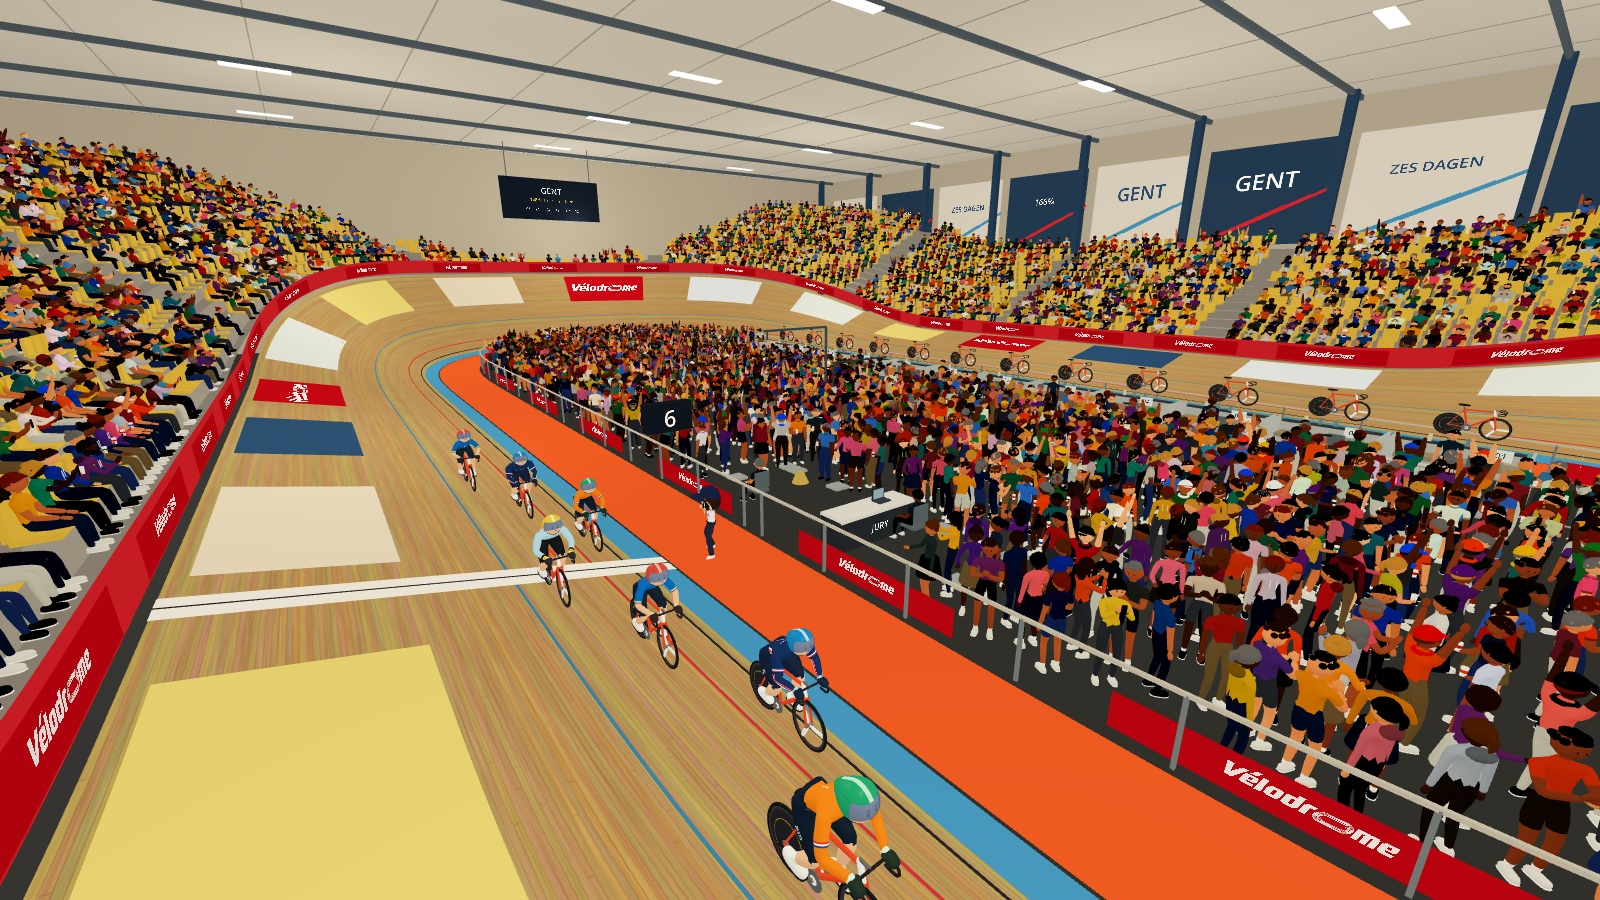
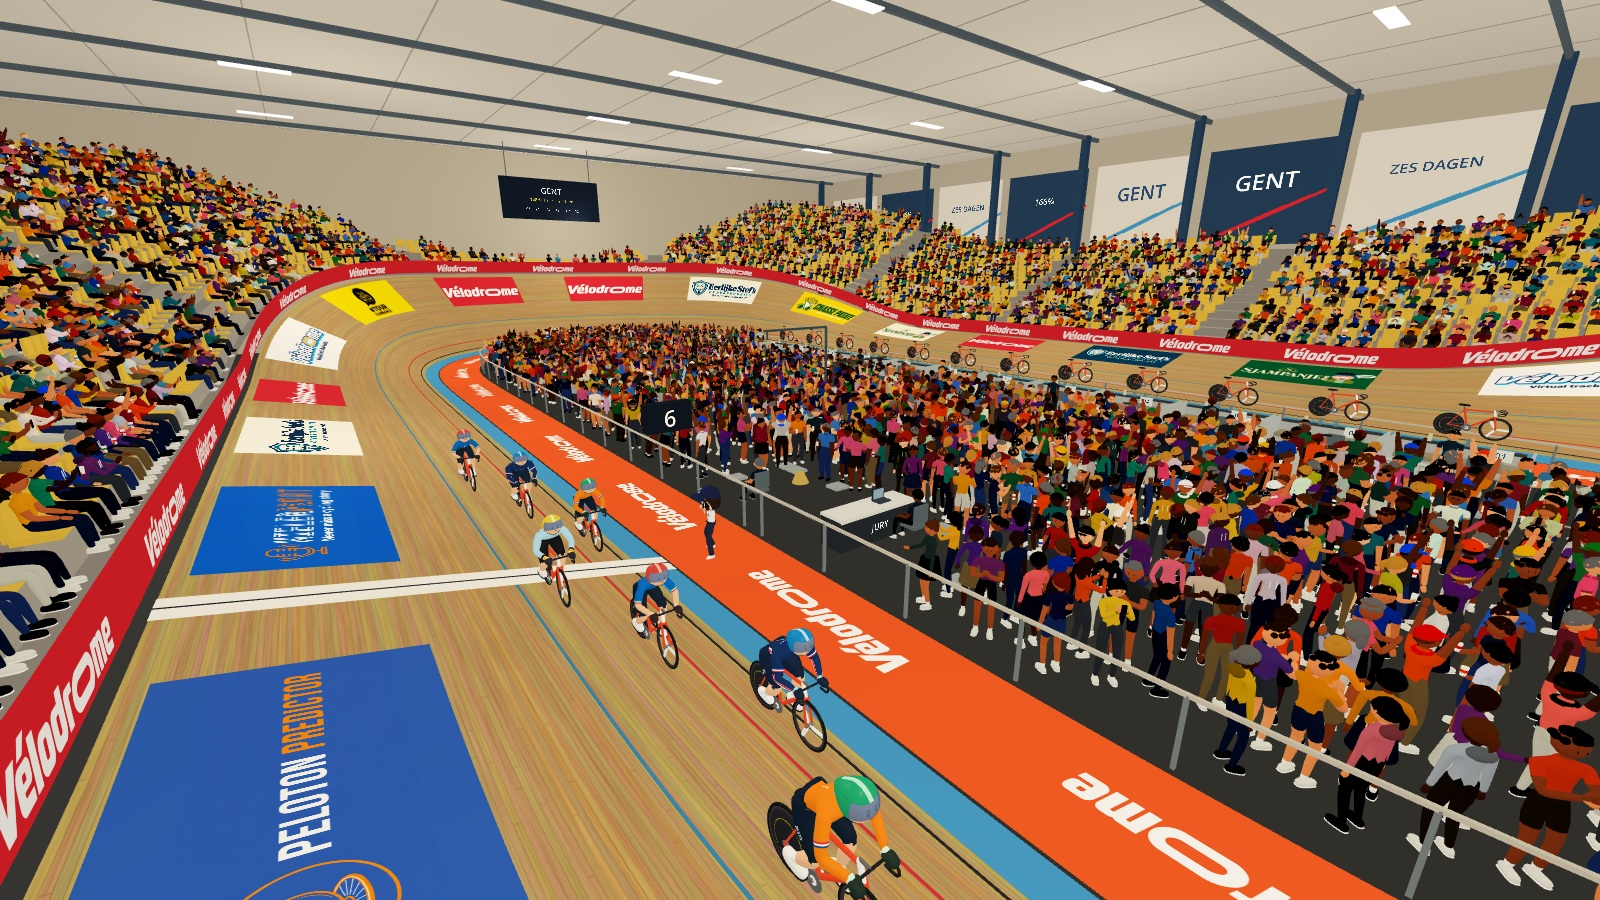
Refine Gent sponsor artwork and matching colours; paint inner branding on apron floor

diff --git a/docs/venues/gent/GODOT.md b/docs/venues/gent/GODOT.md
@@ -32,7 +32,22 @@ In wereldcoördinaten ligt de finish op +X, de rennerzone op -X en de nabije boc
 
 ## Branding en overige bouw
 
-De rode vlakken waarvoor de foto witte Lotto-reclame toont, gebruiken het **witte Vélodrome-logo op rood**. De bestaande transparante woordmerktextuur wordt via een gedeelde shader als witte inkt weergegeven, met behoud van de verhoudingen. Dit is toegepast op 28 buitenboardingpanelen, 24 middenpleinpanelen en vijf rode pistepanelen. De originele logo-assets blijven behouden. Andere zichtbare fotoreclame wordt niet gekopieerd.
+De rode sponsorvlakken gebruiken een aparte, vooraf uitgewerkte **PNG van het witte Vélodrome-logo op rood**: `game/assets/boarding/velodrome-boarding-rood.png` (2172 × 724). De oorspronkelijke meerkleurige 3D-woordmerktextuur wordt hiervoor niet meer tijdens het renderen ontleed. De PNG wordt verliesvrij geïmporteerd, met mipmaps en anisotrope filtering. Lettervormen behouden hun verhouding en antialiasing. De rode bannerachtergrond en de boarding gebruiken dezelfde materiaalwaarde **#D82632**, ruwheid en specular; de subtiele achtergrondvariatie van de PNG wordt niet overgenomen op de boarding.
+
+Alle twintig pistevakken bevatten nu onze eigen sponsorafbeeldingen. De hoofdkleur is gekozen op basis van de aangeleverde foto; dit is een kleurbenadering binnen de spelgeometrie, geen opgemeten kopie van de foto.
+
+| Kleurfamilie in de foto | Gekozen bestaande spelbanners | Aantal pistevakken |
+|---|---|---|
+| Rood met witte opdruk | Nieuwe witte Vélodrome-PNG | 6 |
+| Wit / licht / ivoor | Eerlijke Stef licht, Vélodrome licht, Sjampanje ivoor | 6 |
+| Geel met donkere opdruk | Tour d’Ambiance, Chasse Patate | 3 |
+| Groen met lichte opdruk | Sjampanje groen | 2 |
+| Blauw | PelotonPredictor, Wielerpraat | 2 |
+| Donker | Eerlijke Stef donker | 1 |
+
+De expliciete volgorde staat in `gent_sponsors.gd`. De afbeeldingen worden zonder uitrekken in de gebogen baanvlakken geplaatst. Op de buitenboarding blijven 28 witte Vélodrome-opdrukken staan, met leesbare opdruk aan beide zijden. De 24 opdrukken bij het middenplein liggen vlak op de rode/oranje binnenstrook, zoals op de foto. Er hangen geen reclamevlakken in de middenpleinomheining; daar blijven alleen de leuning en palen over. De vloeropdruk gebruikt hetzelfde oranje als de onderliggende strook, zodat de witte letters rechtstreeks geschilderd lijken. De overige sponsorassets zijn ongewijzigd hergebruikt.
+
+De zwevende zonebenamingen **Renners/techniek** en **Mixed zone** zijn verwijderd. Alleen tekst die zichtbaar op een fysiek paneel, bord of display hoort te staan, blijft behouden (zoals de boxnummers, pers-/jurybordjes, medische post en rondenteller).
 
 De baan blijft 166⅔ m met maximaal 52° banking en zeven meter houtoppervlak, een blauwe strook en een oranje binnenzone. De eigen gele tribunes, rechthoekige hal, vlak plafond en wanddecoratie blijven onderdeel van Gent. De bestaande official behoudt zijn vier animaties en attributen; de tv-box behoudt beide presentatoren op zijn eigen platform bij de aankomsttribune. Er worden geen Vélodrome-tenten of nationale rennerhuisjes overgenomen.
 

diff --git a/docs/venues/gent/VALIDATIE.md b/docs/venues/gent/VALIDATIE.md
@@ -23,4 +23,12 @@ De actuele scène is een inrichting-/ontwerpweergave met demonstratierenners. De
 
 Na de fotocorrectie zijn vier nieuwe Godot-renders gemaakt en bekeken. De dekkingstest controleert dat toegankelijke publieksvloer overal binnen 2,1 m van een bezoeker ligt en dat alle werkzones vrij blijven van bezoekers. Bij standaarddichtheid: 1.388 publiekspersonen; eenvoudig: 604. Medewerkers en tribunes staan daar los van.
 
-De geometrie- en inrichtingstest is na deze correctie opnieuw uitgevoerd, inclusief cameraoriëntatie, de gedeelde backdrop en de branding. Ook de configuratie- en lokalisatietests zijn opnieuw uitgevoerd. De overige regressietests in de tabel zijn uitgevoerd bij de oorspronkelijke Gent-integratie. De CSV is opnieuw opgebouwd voor de renders; de vijf nieuwe zonebenamingen zijn in Nederlands en Engels gecontroleerd.
+De geometrie- en inrichtingstest is na deze correctie opnieuw uitgevoerd, inclusief cameraoriëntatie, de gedeelde backdrop en de branding. Ook de configuratie- en lokalisatietests zijn opnieuw uitgevoerd. De overige regressietests in de tabel zijn uitgevoerd bij de oorspronkelijke Gent-integratie. De CSV is opnieuw opgebouwd voor de renders; de drie behouden paneelbenamingen zijn in Nederlands en Engels gecontroleerd.
+
+## Sponsor- en tekstcorrectie
+
+Na de bannerwijziging zijn de Gent-inrichtingstest en lokalisatietest opnieuw uitgevoerd. Extra controles: alle twintig pistevakken bevatten een bestaand sponsorbeeld of de nieuwe rode Vélodrome-PNG, de kleurverdeling bevat zes families, rode banners delen exact de boardingkleur, de nieuwe PNG is ten minste 2048 px breed en heeft mipmaps, en de zwevende technische/mixed-zonebenamingen ontbreken. Vier echte Godot-renders zijn vernieuwd om scherpte, roodovergang en plaatsing visueel te beoordelen.
+
+Een aparte gerenderde kleurcontrole met identieke vlakken en gelijke belichting meet voor de rode bannerachtergrond en de basisboarding een maximaal kanaalverschil van **0/255** op de vergeleken kleurmonsters. De definitieve overzichts- en detailbeelden zijn daarna opnieuw opgenomen; de ongewenste zwarte opvulranden ontbreken.
+
+De middenpleinreclame is daarna naar de rode/oranje vloer verplaatst. De opnieuw geslaagde inrichtingstest controleert dat alle vertices van die opdruk op vloerhoogte liggen, de achtergrondkleur gelijk is aan de binnenstrook en de oude reclamevlakken in de omheining ontbreken. De vier screenshots tonen deze definitieve plaatsing.
